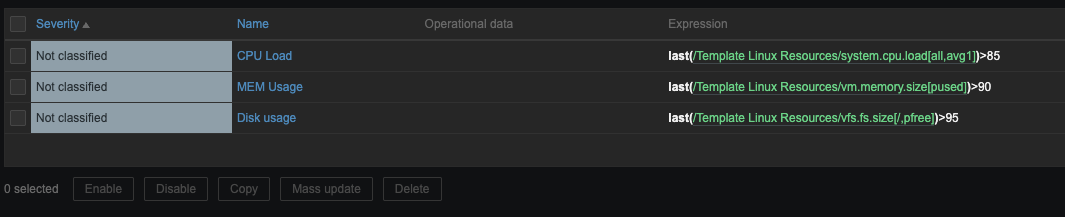
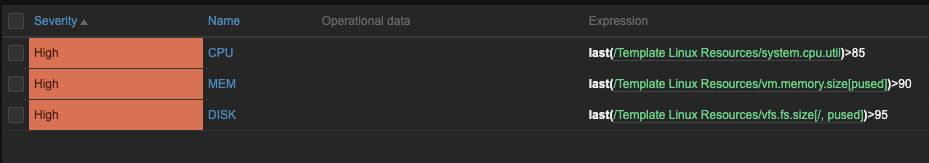
Добавлено решение этап №2

diff --git a/README.md b/README.md
@@ -33,26 +33,28 @@ Zabbix Agent: 7.0.12
 ![Шаблон Template Linux Resources](img/b1-11.png)
 
 1. CPU 
-Ключ метрики: system.cpu.load[all,avg1]
-Отслеживание средней загрузки всех ядер процессора за 1 минуту (в зависимости от потребности можно менять на определенные ядра или увеличить время средней , для плавающей нагрузки).
-Например: avg(//system.cpu.load[percpu,avg1,0], 120m)  - 1 ядро с средней в 2 часа
+Ключ метрики: system.cpu.util
+Показывает общую загрузку процессора в процентах
 2. MEM
 Ключ метрики: vm.memory.size[pused]
 Отслеживание использования оперативной памяти в процентах от общего объёма (без кеша) Так же хорошо смотреть утечки (avg(//vm.memory.size[pused], 480m) - last(//vm.memory.size[pused]) > 10).
-3. FREE DISK
-Ключ метрики: vfs.fs.size[/,pfree]
-Отслеживание свободного места на корне (дополнительно можно подключить контроль заполнения за сутки (last) или скорость чтения/запись (ops))
+3. DISK
+Ключ метрики: vfs.fs.size[/,pused]
+Отслеживание заполненого места на корне
 
 #### Задание 1.2 
 Добавьте в шаблон триггеры, которые будут срабатывать при достижении определенных порогов (например, использование процессора более 85%, памяти более 90%, заполнение диска более 95%).
 **Решение**
 
-![Шаблон Template Linux Resources](img/b1-11.png)
+![Шаблон Template Linux Resources](img/b1-12.png)
 
 Дополнительно я бы сделал двухуровневые триггеры, для Warning и High, а для диска бы добавил еще тригер на численое значение (free)
 
 #### Задание 1.3 *
 Создайте на основе шаблона карту сети, отображающую статус серверов и основные метрики на одном экране.
+
+![Карта](img/b1-11.png)
+
 
 #### Задание блок 2
 1.	Напишите скрипт (на Bash/Python), который будет проверять наличие обновлений для Zabbix агентов на всех серверах и отправлять уведомление через Telegram в случае доступности обновления. Скрипт должен работать на одной или нескольких (желательно) из ОС на выбор: CentOS, RedOS, Astra Linux, Alt Linux, Debian, Ubuntu.
